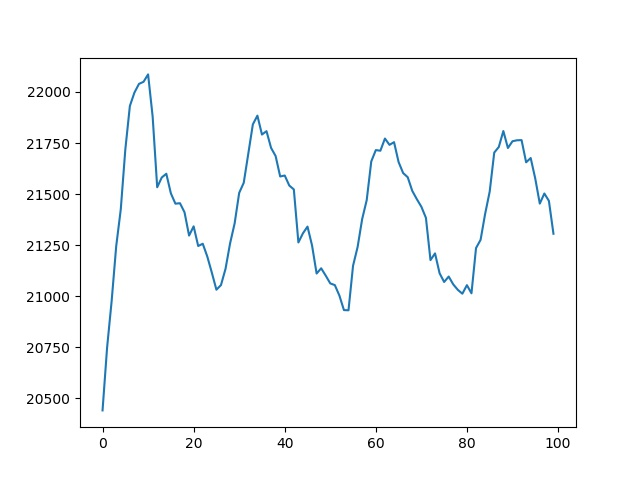
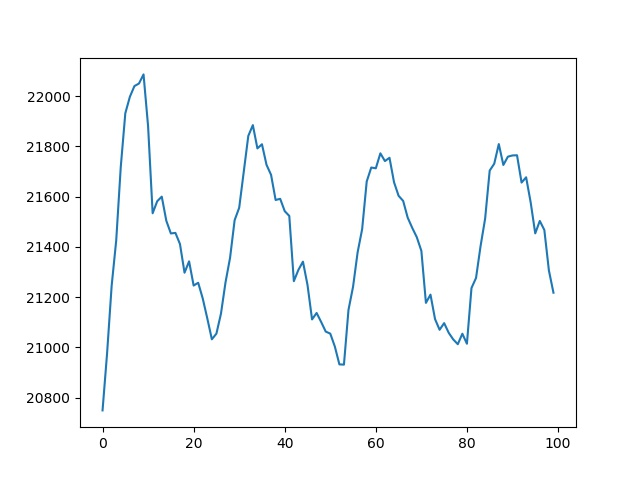
'auto'

diff --git a/README.md b/README.md
@@ -1,5 +1,5 @@
 Frizider live: 5
-21306.06666666667 
+21217.61666666667 
 0
 Temperatura:
 
